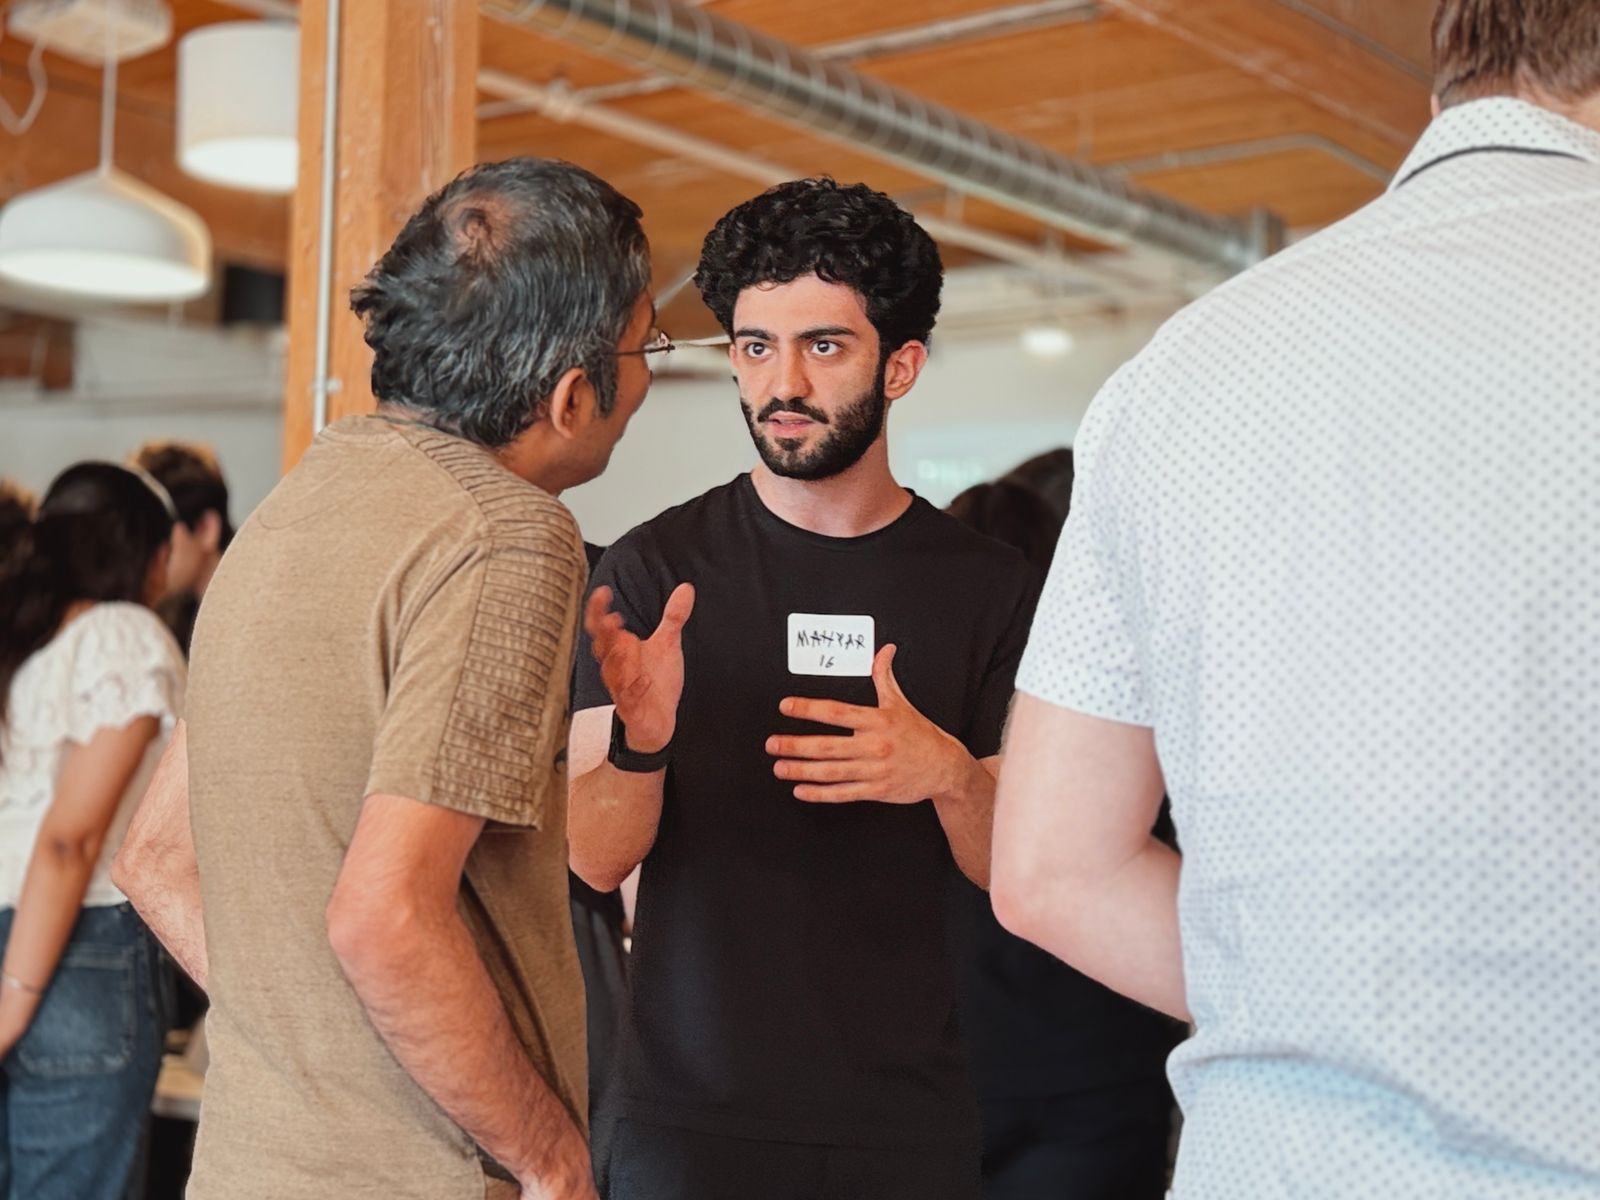
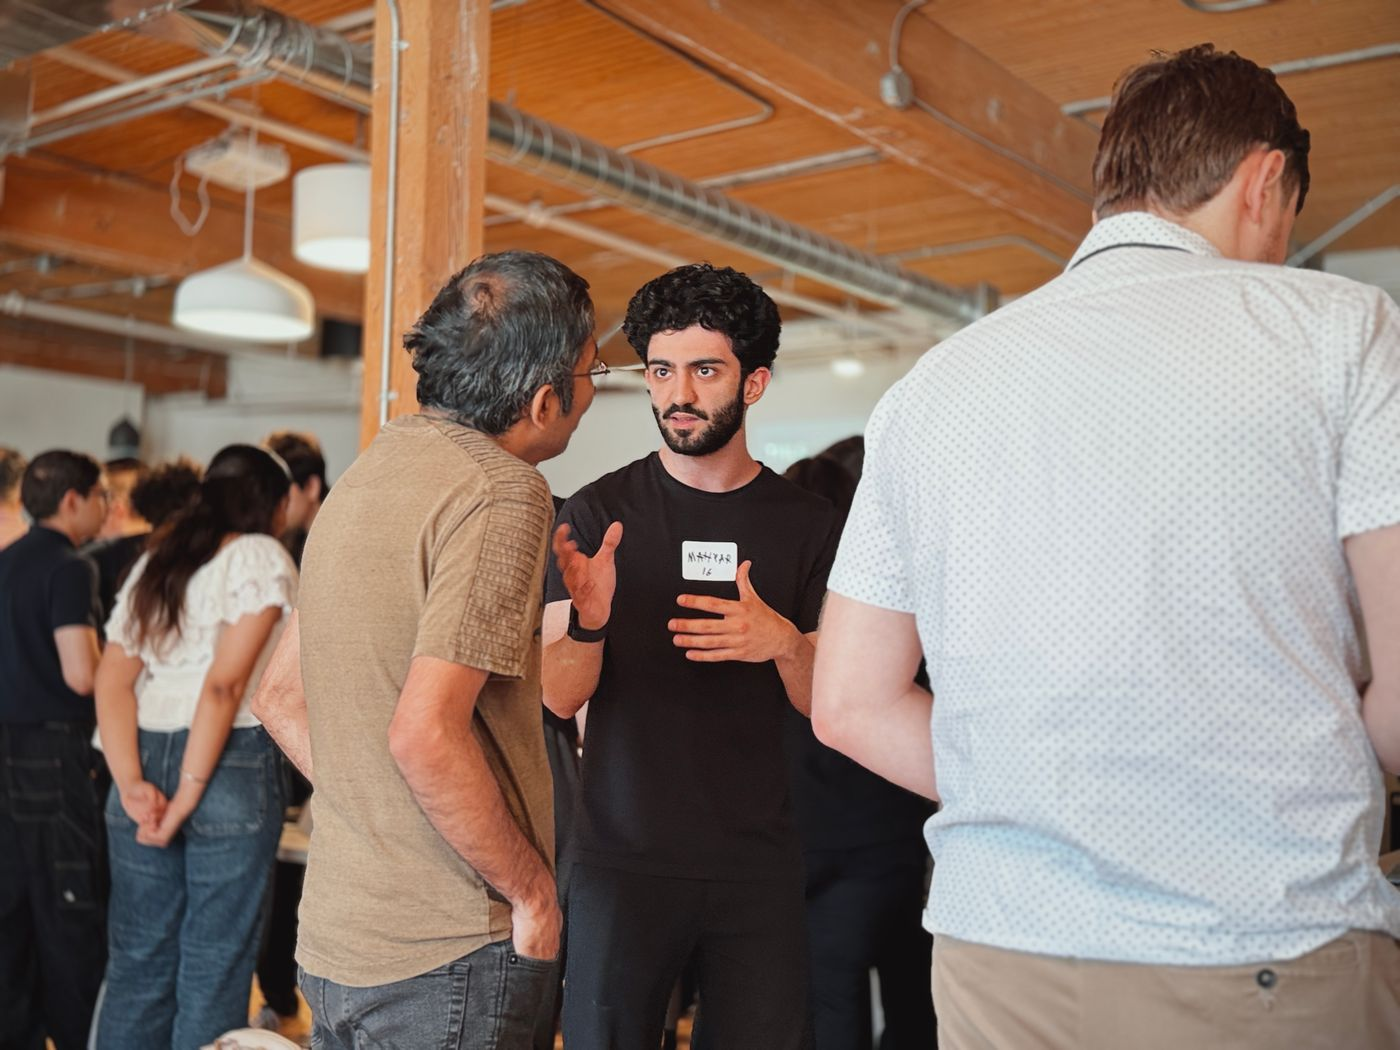
Maridian's demo day: the full photos, no captions, and no "SSE"
Mahyar's answers to the open questions:
- The two photos are now the full frames, not crops ("its my photo"). They
  are 1400x1050 sRGB with no EXIF or GPS: the widest they ever show is
  684 CSS px, one column at the 760px break, so 1368 px at 2x.
- Demo day has no captions. They are gone from the data, the Photo and
  Clip types and the clip's figure. The product shots keep theirs, and the
  alt text still names only Mahyar.
- The third "How it works" step says the steps stream to the screen, without
  "over SSE", now that the "Server-sent events" tag is gone.
- The clip still plays once on its own when it is in view: no change.

diff --git a/content/projects.ts b/content/projects.ts
@@ -336,7 +336,8 @@ const maridian: CaseStudyProject = {
       // source: api/routers/production.py:425 (text/event-stream), :463-469 (accepted or overridden);
       // api/contracts.py:93 `ready_to_send: Literal[False]`; front/line-detail.html:1979 (Send to customer disabled).
       // "Each agent's steps", not "live reasoning": orchestrator.py:84-118 drains each agent, then yields its events.
-      body: 'Each agent’s steps stream to the screen over SSE; the operator accepts or overrides, and customer emails stay drafts.',
+      // Plain "stream", no "SSE": the acronym went with the "Server-sent events" tag (Mahyar, 2026-09-25).
+      body: 'Each agent’s steps stream to the screen; the operator accepts or overrides, and customer emails stay drafts.',
     },
   ],
 
@@ -440,10 +441,11 @@ const maridian: CaseStudyProject = {
 
   // Mahyar's clip and photos from demo day, May 29 (CONTRIBUTORS.md:21; the files were shot 13:26 to 14:08
   // that day): 401492.MOV, IMG_2710.JPG and IMG_2711.JPG, cut for the web on 2026-09-25. The clip is 720p
-  // H.264 with no audio track, the photos 1600x1200 sRGB, and none of them carries its metadata (the
-  // originals have GPS). The table sign's QR code is blurred in every frame: it opens the dead demo
-  // (fgf-sentinel-web.vercel.app/maridian/login.html), which this page doesn't link. The team photo is
-  // cropped above a teammate's name tag, and no caption or alt names anyone but Mahyar.
+  // H.264 with no audio track. The photos are the full frames, uncropped (Mahyar: "its my photo"), at
+  // 1400x1050 sRGB: the widest they show is 684 CSS px (one column, at the 760px break), 1368 px at 2x.
+  // None of them carries its metadata (the originals have GPS). The table sign's QR code is blurred in every
+  // frame: it opens the dead demo (fgf-sentinel-web.vercel.app/maridian/login.html), which this page doesn't
+  // link. No captions (his call); no alt names anyone but Mahyar.
   demoDay: {
     clip: {
       src: '/work/maridian/demo-table.mp4',
@@ -451,22 +453,19 @@ const maridian: CaseStudyProject = {
       width: 1280,
       height: 720,
       alt: 'A handheld shot past people standing at the team’s table, coming to rest on its sign: “TMLS · Team #16 · Maridian · Scan to view project”, the QR code blurred, in front of two open laptops.',
-      caption: 'Our table: team 16.',
     },
     photos: [
       {
         src: '/work/maridian/demo-talk.jpg',
-        width: 1600,
-        height: 1200,
+        width: 1400,
+        height: 1050,
         alt: 'Mahyar, in a black T-shirt and a “MAHYAR 16” name tag, talking with a visitor in a crowded room.',
-        caption: 'Talking with a visitor.',
       },
       {
         src: '/work/maridian/demo-team.jpg',
-        width: 1600,
-        height: 1200,
-        alt: 'Mahyar, seen from behind, talking with two teammates.',
-        caption: 'With two of my teammates.',
+        width: 1400,
+        height: 1050,
+        alt: 'Mahyar, seen from behind, talking with two teammates at their laptops.',
       },
     ],
   },

diff --git a/content/types.ts b/content/types.ts
@@ -149,21 +149,21 @@ export interface Shot {
 /**
  * A photo from the room on the day a project was shown: people, not the
  * product (that is a Shot). Shipped resized, in sRGB, with no EXIF or GPS. Its
- * alt and caption name Mahyar and no one else: not a teammate, not a visitor.
+ * alt names Mahyar and no one else: not a teammate, not a visitor. No caption:
+ * the section's title says what they are (Mahyar, 2026-09-25).
  */
 export interface Photo {
   src: string;
   width: number;
   height: number;
   alt: string;
-  /** One line on the moment. */
-  caption: string;
 }
 
 /**
  * A short clip from the same day, silent: the file has no audio track.
  * `still` is its last frame, the one it comes to rest on, so the still can
  * stand in for it before it plays, under reduced motion and without scripts.
+ * Like the photos, it has no caption.
  */
 export interface Clip {
   src: string;
@@ -172,7 +172,6 @@ export interface Clip {
   height: number;
   /** What the clip shows, for a reader who can't see it. */
   alt: string;
-  caption: string;
 }
 
 /** One beat of "how it works". Three of them, in order. */

diff --git a/components/work/CaseStudy.tsx b/components/work/CaseStudy.tsx
@@ -135,11 +135,12 @@ function CaseHero({
 const WIDE = '(max-width: 760px) 100vw, 880px';
 const HALF = '(max-width: 760px) 100vw, 440px';
 
+/** A shot has its caption; a demo-day photo has none. */
 function figure(s: Shot | Photo, sizes: string) {
   return (
     <figure className="lu-shot" key={s.src}>
       <Image src={s.src} alt={s.alt} width={s.width} height={s.height} sizes={sizes} loading="lazy" />
-      <figcaption>{s.caption}</figcaption>
+      {'caption' in s && <figcaption>{s.caption}</figcaption>}
     </figure>
   );
 }
@@ -172,7 +173,8 @@ function Shots({ shots }: { shots: Shot[] }) {
 /**
  * The day it was shown, in the same frames as the product: the clip leads, the
  * photos pair under it. Photos are content, so they sit on the paper of the
- * figure, never under glass; only the clip's button is glass.
+ * figure, never under glass; only the clip's button is glass. No captions
+ * (Mahyar, 2026-09-25): the title says what they are, the alt text the rest.
  */
 function DemoDay({ clip, photos }: NonNullable<CaseStudyProject['demoDay']>) {
   return (

diff --git a/components/work/DemoClip.tsx b/components/work/DemoClip.tsx
@@ -192,7 +192,6 @@ export default function DemoClip({ clip }: { clip: Clip }) {
           {busy ? ICON_PAUSE : state === 'ended' ? ICON_REPLAY : ICON_PLAY}
         </button>
       </div>
-      <figcaption>{clip.caption}</figcaption>
     </figure>
   );
 }
